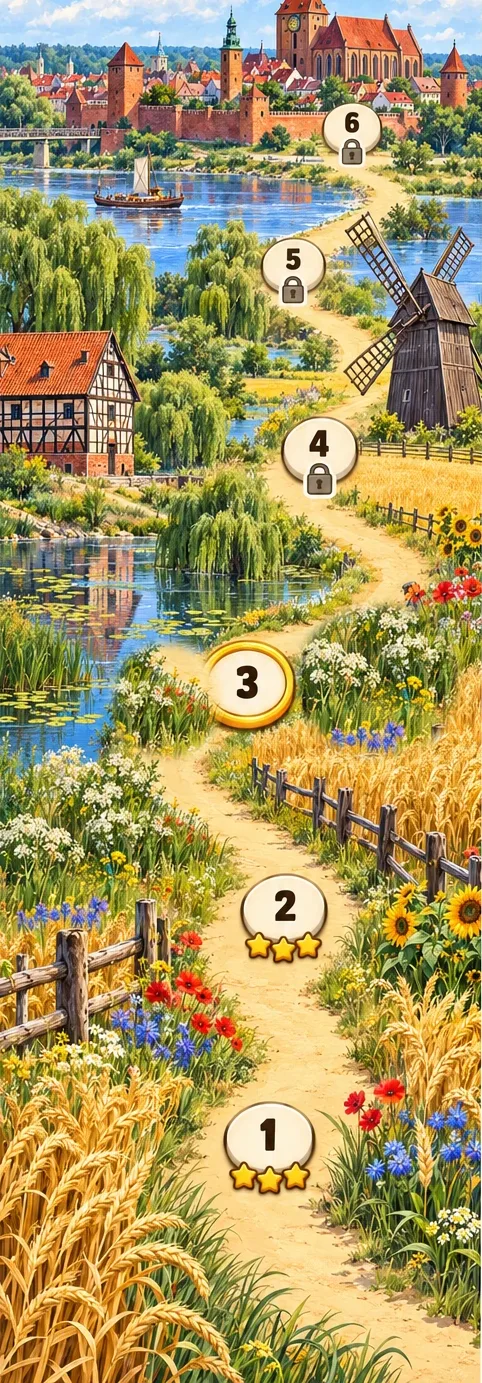
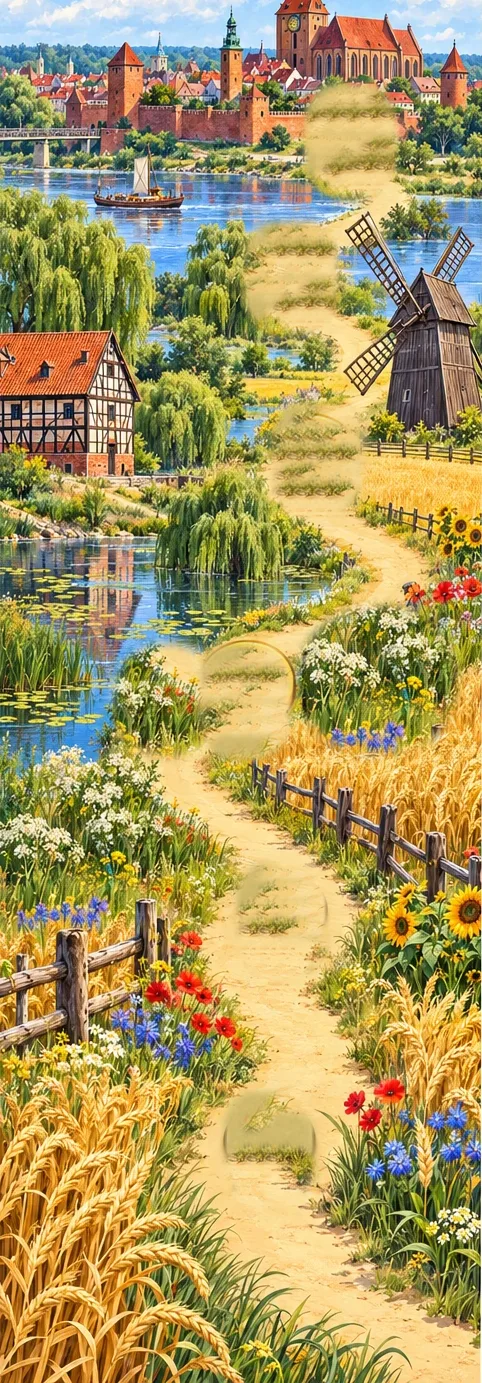
Plansza: bez narysowanych pól pod polami gry, pola nie nachodzą na siebie
Claude-Session: https://claude.ai/code/session_01TewRKBrih3JMWZBAHqNo76

diff --git a/index.html b/index.html
@@ -162,7 +162,18 @@ function ukladMalowany(W){
   const panele=Saga.SWIATY.map(sw=>{const r=reg[MAL_ID[sw.woj]];return {r,h:W*r.h/r.w};});
   const H=GORA+DOL+panele.reduce((a,p)=>a+p.h+BANER_M,0);
   const pts=[],top=[];let y=H-DOL;
-  panele.forEach((p,s)=>{y-=BANER_M;const t=y-p.h;top.push(t);p.r.levels.forEach(l=>pts.push({x:W*l.x/100,y:t+p.h*l.y/100}));y=t;});
+  panele.forEach((p,s)=>{y-=BANER_M;const t=y-p.h;top.push(t);
+    const kr=p.r.levels.map(l=>({x:W*l.x/100,y:t+p.h*l.y/100}));
+    // narysowanych pól już nie ma na ilustracji, więc nasze pola można rozsunąć: na wąskim ekranie nachodziły na siebie
+    for(let i=1;i<kr.length;i++){
+      const a=kr[i-1],b=kr[i],min=(i===kr.length-1?112:100);
+      let dx=b.x-a.x,dy=b.y-a.y,d=Math.hypot(dx,dy)||1;
+      if(d>=min)continue;
+      b.x=a.x+dx/d*min;b.y=a.y+dy/d*min;
+      if(b.y<t+46){b.y=t+46;const zost=Math.sqrt(Math.max(0,min*min-(a.y-b.y)**2));b.x=a.x+(a.x>W/2?-1:1)*zost;}
+      b.x=Math.max(44,Math.min(W-44,b.x));
+    }
+    kr.forEach(q=>pts.push(q));y=t;});
   return {pts,H,panele,top};
 }
 const BANER_M=96;
@@ -184,7 +195,7 @@ function rysujMalowana(W,uk,pl){
   Saga.SWIATY.forEach((sw,s)=>{
     const t=top[s],ph=panele[s].h;
     PASY.push({s,top:t,bottom:t+ph+BANER_M});
-    h+='<div class="malowany" data-s="'+s+'" style="top:'+t+'px;height:'+ph.toFixed(1)+'px;background-image:url(grafiki/plansza/'+panele[s].r.id+'.webp?v=1)"></div>';
+    h+='<div class="malowany" data-s="'+s+'" style="top:'+t+'px;height:'+ph.toFixed(1)+'px;background-image:url(grafiki/plansza/'+panele[s].r.id+'.webp?v=2)"></div>';
     const gw=[...Array(Saga.NA_SWIAT)].reduce((a,_,i)=>a+(stan.gw[s*Saga.NA_SWIAT+i]||0),0),otw=Saga.odblokowany(s*Saga.NA_SWIAT,stan);
     h+='<div class="separator" style="top:'+(t+ph)+'px;height:'+BANER_M+'px"></div>';
     h+='<div class="baner pole'+(otw?"":" zamk")+'" style="top:'+(t+ph+(BANER_M-66)/2)+'px">'+(WOJ[sw.woj]||'<svg class="woj"></svg>')+'<div><b>'+sw.nazwa+'</b><small>Kraina '+(s+1)+' · stolica: '+sw.stolica+'</small></div><span class="ile">★ '+gw+'/'+(Saga.NA_SWIAT*3)+'</span></div>';
@@ -382,7 +393,7 @@ fetch("woj.geojson?v=16").then(r=>r.json()).then(gj=>{
 }).catch(()=>{}).finally(()=>{
   // opcjonalne malowane grafiki krain (krainy-grafiki.json); bez nich rysujemy wektory
   // malowana plansza; gdy jej nie ma, zostaje dotychczasowy rysowany krajobraz
-  fetch("grafiki/plansza/plansza.json?v=1").then(r=>r.ok?r.json():null).catch(()=>null).then(m=>{
+  fetch("grafiki/plansza/plansza.json?v=2").then(r=>r.ok?r.json():null).catch(()=>null).then(m=>{
     if(m&&m.regions&&m.regions.length===16){MALOWANA=m;start();return;}
     fetch("krainy-grafiki.json",{cache:"no-cache"}).then(r=>r.ok?r.json():{}).catch(()=>({})).then(g=>{if(window.Krainy)return Krainy.zaladujGrafiki(g).then(start);start();});
   });

diff --git a/sw.js b/sw.js
@@ -1,8 +1,8 @@
 // Działa offline, ale zawsze najpierw próbuje sieci, żeby poprawki docierały od razu.
-const CACHE = "polskoznawca-v69-bez-pokojow";
+const CACHE = "polskoznawca-v70-czyste-tla";
 const ASSETS = ["./karty-dane.json","./karty-v4.css","./login-ui.css?v=2","./konto-ui.css?v=1","./konto-nav.css","./karta-w-ciemno.html","./karta-w-ciemno.js?v=14","./karta-w-ciemno-zasady.js?v=5","./karta-w-ciemno.css","./online-config.js", "./online.js?v=4", "./walka.js?v=2", "./ranking-spolecznosc.js?v=2", "./ranking-spolecznosc.css?v=2", "./logowanie.html", "./ranking.html",
   "./", "./index.html", "./miasta.html", "./zdjecie.html", "./herb.html", "./herby-gmin.js?v=1", "./gdzie.html", "./ksztalt.html",
-  "./wiecej.html", "./sasiedzi.html", "./dzis.html", "./wyzwanie.html", "./szostka.html", "./cieplo.html", "./profil.html", "./saga.js", "./memory.html", "./strzal.html", "./karty.html", "./drogi.json?v=1", "./lancuch.html", "./grafiki/plansza/plansza.json?v=1", "./karty-geo.json", "./polandball.js?v=4", "./krainy.js?v=5", "./krainy-grafiki.json", "./malowana-plansza.css?v=1", "./grafiki/krainy/natura.webp", "./grafiki/krainy/wies.webp", "./grafiki/krainy/zabytki.webp", "./grafiki/krainy/przygoda.webp", "./grafiki/krainy/laka.webp", "./grafiki/krainy/morze.webp", "./ciekawostki.json", "./karty.js?v=22", "./instaluj.js", "./efekty.js?v=17", "./plansza.css", "./gry.html", "./plansza-formularze.css?v=1", "./naglowek.js?v=3", "./codzienne.html", "./konto.js", "./pojedynek.html", "./kluby.html", "./encyklopedia.html", "./powiaty.html", "./rzeki.html", "./statystyki.html", "./slepa.html", "./miasto.html", "./turniej.html", "./tablice.html",
+  "./wiecej.html", "./sasiedzi.html", "./dzis.html", "./wyzwanie.html", "./szostka.html", "./cieplo.html", "./profil.html", "./saga.js", "./memory.html", "./strzal.html", "./karty.html", "./drogi.json?v=1", "./lancuch.html", "./grafiki/plansza/plansza.json?v=2", "./karty-geo.json", "./polandball.js?v=4", "./krainy.js?v=5", "./krainy-grafiki.json", "./malowana-plansza.css?v=1", "./grafiki/krainy/natura.webp", "./grafiki/krainy/wies.webp", "./grafiki/krainy/zabytki.webp", "./grafiki/krainy/przygoda.webp", "./grafiki/krainy/laka.webp", "./grafiki/krainy/morze.webp", "./ciekawostki.json", "./karty.js?v=22", "./instaluj.js", "./efekty.js?v=17", "./plansza.css", "./gry.html", "./plansza-formularze.css?v=1", "./naglowek.js?v=3", "./codzienne.html", "./konto.js", "./pojedynek.html", "./kluby.html", "./encyklopedia.html", "./powiaty.html", "./rzeki.html", "./statystyki.html", "./slepa.html", "./miasto.html", "./turniej.html", "./tablice.html",
   "./tablice-app.js", "./tablice-powiaty.js", "./tablice-poland.js",
   "./wspolne.js?v=24", "./wspolne.css?v=23", "./topojson-client.min.js?v=17", "./powiaty.topojson?v=16", "./woj.geojson?v=16",
   "./manifest.webmanifest", "./icon.svg"

diff --git a/narzedzia/plansza_tla.py b/narzedzia/plansza_tla.py
@@ -1,7 +1,7 @@
 """Tła planszy z zaakceptowanych malowanych ilustracji (narzedzia/plansza-zrodla).
 
-Ilustracje mają narysowane numery pól, gwiazdki, kłódki, pionek przy polu 3 i przycisk GRAJ.
-Gra pokazuje prawdziwy postęp własnymi elementami, więc te narysowane stany są tu zamalowywane
+Ilustracje mają narysowane pola (numery, gwiazdki, kłódki), pionek przy polu 3 i przycisk GRAJ.
+Gra pokazuje prawdziwy postęp własnymi elementami, więc wszystkie te narysowane elementy są tu zamalowywane
 (inpainting OpenCV) i każde województwo trafia do osobnego pliku grafiki/plansza/<id>.webp,
 już przycięte: bez paska z nazwą u góry (10% wysokości), jak w paczce.
 Wynik: grafiki/plansza/plansza.json z pozycjami pól w procentach nowego kadru.
@@ -86,8 +86,8 @@ def main():
         # każdy narysowany element zastępujemy fragmentem ilustracji z sąsiedztwa (łata z miękką krawędzią),
         # wybraną tak, żeby kolory na obrzeżu pasowały; to wygląda naturalniej niż samo rozmywanie
         R = int(W * 0.078)
-        # narysowane pola (numery, gwiazdki, kłódki) zostają: gra kładzie na nich własne pola z prawdziwym postępem;
-        # usuwamy tylko pionek przy polu 3 i przycisk GRAJ, których nie da się przykryć
+        # narysowane pola (numery, gwiazdki, kłódki) też zamalowujemy: gra kładzie w tym miejscu własne pola,
+        # a narysowane prześwitywały spod nich jako drugi krążek i drugi pasek gwiazdek
         obiekty = []
         pola = np.zeros((H, W), np.uint8)
         for x, y in poprawione:
@@ -141,6 +141,65 @@ def main():
             zrodlo = cv2.warpAffine(czysty, np.float32([[1, 0, -ox], [0, 1, -oy]]), (W, H), flags=cv2.INTER_NEAREST, borderMode=cv2.BORDER_REFLECT)
             alfa = cv2.GaussianBlur(cv2.dilate(m, np.ones((9, 9), np.uint8)).astype(np.float32) / 255, (0, 0), 5)[..., None]
             czysty = (czysty * (1 - alfa) + zrodlo * alfa).astype(np.uint8)
+        # narysowane pola: łaty z tej samej ścieżki. Źródło bierzemy tylko z odcinków ścieżki między sąsiednimi
+        # polami (tam jest piasek), więc nie przenosi obcych obiektów (zamków, skał, wody). Pole łatamy małymi
+        # okrągłymi kawałkami, bo pola leżą gęsto i cała elipsa nie mieści się między sąsiadami.
+        rdzen = np.zeros((H, W), np.uint8)   # narysowane pola, których jeszcze nie zamalowano
+        for x, y in poprawione:
+            cv2.ellipse(rdzen, (int(x), int(y + R * .3)), (int(R * 1.15), int(R * 1.45)), 0, 0, 360, 255, -1)
+        kandydaci = []
+        pary = list(zip(poprawione, poprawione[1:]))
+        for (ax, ay), (bx, by) in pary:
+            dl = max(1.0, float(np.hypot(bx - ax, by - ay)))
+            nx, ny = -(by - ay) / dl, (bx - ax) / dl
+            for t in np.arange(.15, .86, .05):
+                for d in (-.5, -.3, -.15, 0, .15, .3, .5):
+                    kandydaci.append((ax + (bx - ax) * t + nx * d * R, ay + (by - ay) * t + ny * d * R))
+        # kolor ścieżki: mediana z punktów w połowie drogi między polami; łata musi być w tym kolorze (piasek, nie woda)
+        probki = [czysty[int(cy), int(cx)] for cx, cy in kandydaci if 0 <= int(cx) < W and 0 <= int(cy) < H]
+        sciezka = np.median(np.array(probki), axis=0)
+        rk = int(R * .6)
+        rng = np.random.default_rng(11)
+        for x, y in poprawione:
+            m_pole = np.zeros((H, W), np.uint8)
+            cv2.ellipse(m_pole, (int(x), int(y + R * .3)), (int(R * 1.15), int(R * 1.45)), 0, 0, 360, 255, -1)
+            for dy in (-.75, -.25, .25, .75, 1.2):
+                for dx in (-.55, 0, .55):
+                    tx, ty = int(x + dx * R), int(y + R * .3 + dy * R)
+                    if not (0 <= tx < W and 0 <= ty < H) or not m_pole[ty, tx]:
+                        continue
+                    m = np.zeros((H, W), np.uint8)
+                    cv2.circle(m, (tx, ty), rk, 255, -1)
+                    m &= cv2.dilate(m_pole, np.ones((7, 7), np.uint8))
+                    pierscien = cv2.dilate(m, np.ones((11, 11), np.uint8)) & ~m
+                    ys, xs = np.nonzero(pierscien)
+                    my, mx = np.nonzero(cv2.dilate(m, np.ones((7, 7), np.uint8)))
+                    best = None
+                    for cx, cy in kandydaci:
+                        ox, oy = int(cx - tx), int(cy - ty)
+                        if not (0 <= my.min() + oy and my.max() + oy < H and 0 <= mx.min() + ox and mx.max() + ox < W):
+                            continue
+                        if not (0 <= ys.min() + oy and ys.max() + oy < H and 0 <= xs.min() + ox and xs.max() + ox < W):
+                            continue
+                        if rdzen[my + oy, mx + ox].any():
+                            continue
+                        roznica = np.mean(np.abs(czysty[ys + oy, xs + ox].astype(int) - czysty[ys, xs].astype(int)))
+                        roznica += .7 * np.mean(np.abs(czysty[my + oy, mx + ox].mean(axis=0) - sciezka))
+                        if best is None or roznica < best[0]:
+                            best = (roznica, ox, oy)
+                    # brak dobrej łaty (np. pole w gęstych kwiatach): gładkie zamalowanie, i tak leży pod polem gry
+                    if best is None or best[0] > 45:
+                        # piasek w kolorze ścieżki z drobnym ziarnem farby
+                        ziarno = cv2.GaussianBlur(rng.normal(0, 9, (H, W)).astype(np.float32), (0, 0), 1.1)[..., None]
+                        piasek = np.clip(sciezka[None, None, :] + ziarno, 0, 255)
+                        alfa = cv2.GaussianBlur(cv2.dilate(m, np.ones((7, 7), np.uint8)).astype(np.float32) / 255, (0, 0), 4)[..., None]
+                        czysty = (czysty * (1 - alfa) + piasek * alfa).astype(np.uint8)
+                        continue
+                    _, ox, oy = best
+                    zrodlo = cv2.warpAffine(czysty, np.float32([[1, 0, -ox], [0, 1, -oy]]), (W, H), flags=cv2.INTER_NEAREST, borderMode=cv2.BORDER_REFLECT)
+                    alfa = cv2.GaussianBlur(cv2.dilate(m, np.ones((7, 7), np.uint8)).astype(np.float32) / 255, (0, 0), 4)[..., None]
+                    czysty = (czysty * (1 - alfa) + zrodlo * alfa).astype(np.uint8)
+            rdzen[m_pole > 0] = 0   # to pole jest już czyste, może służyć za źródło dla kolejnych
         gora = int(H * 0.10)
         czysty = czysty[gora:]
         cv2.imwrite(str(OUT / (r["id"] + ".webp")), czysty, [cv2.IMWRITE_WEBP_QUALITY, 82])

diff --git a/CLAUDE.md b/CLAUDE.md
@@ -45,4 +45,4 @@ Właściciel: Dawid (specjalista GIS). Rozmawiamy po polsku. W odpowiedziach nie
 ## Otwarte sprawy
 - Dawid przygotuje w QGIS/OSM dane do nowych wskaźników (Żabki, Biedronki, Lidle, paczkomaty, apteki, stacje PKP, ścieżki rowerowe) jako CSV `teryt;...` (wartości bezwzględne, przeliczenie robimy w grze).
 - Pomysły do zrobienia: Odkrywca (mapa Polski we mgle, kroki dziennie, znaleziska, paszport z pieczątkami), gra „zaznacz drogę” (potrzebne numery dróg `ref` z OSM), wyzwania w Karcie w ciemno przez bazę są (z rankingu), link zostaje jako zapas.
-- Lepsze tła planszy: wersje ilustracji bez narysowanych pól (wtedy wystarczy podmienić pliki w `narzedzia/plansza-zrodla/` i uruchomić `narzedzia/plansza_tla.py`).
+- Tła planszy: `narzedzia/plansza_tla.py` zamalowuje narysowane pola łatami ze ścieżki (10.10.2026), a `index.html` rozsuwa pola gry, żeby nie nachodziły na siebie przy 360 px. Gdyby przyszły ilustracje bez narysowanych pól, wystarczy podmienić pliki w `narzedzia/plansza-zrodla/` i uruchomić skrypt.
